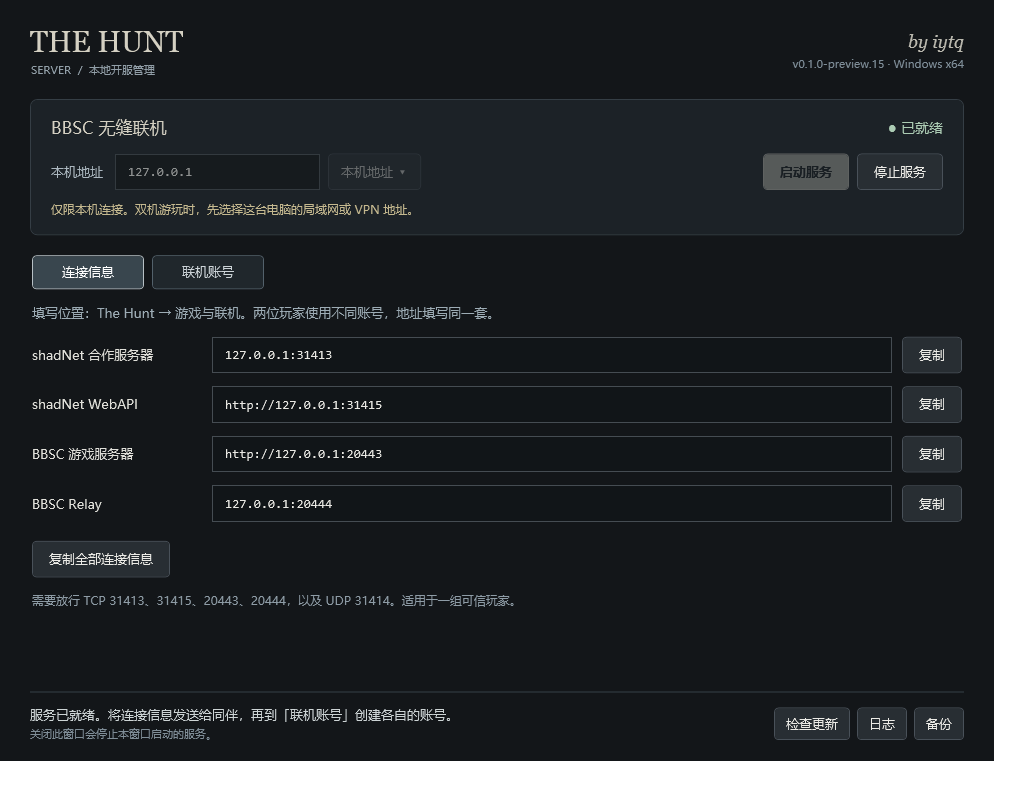
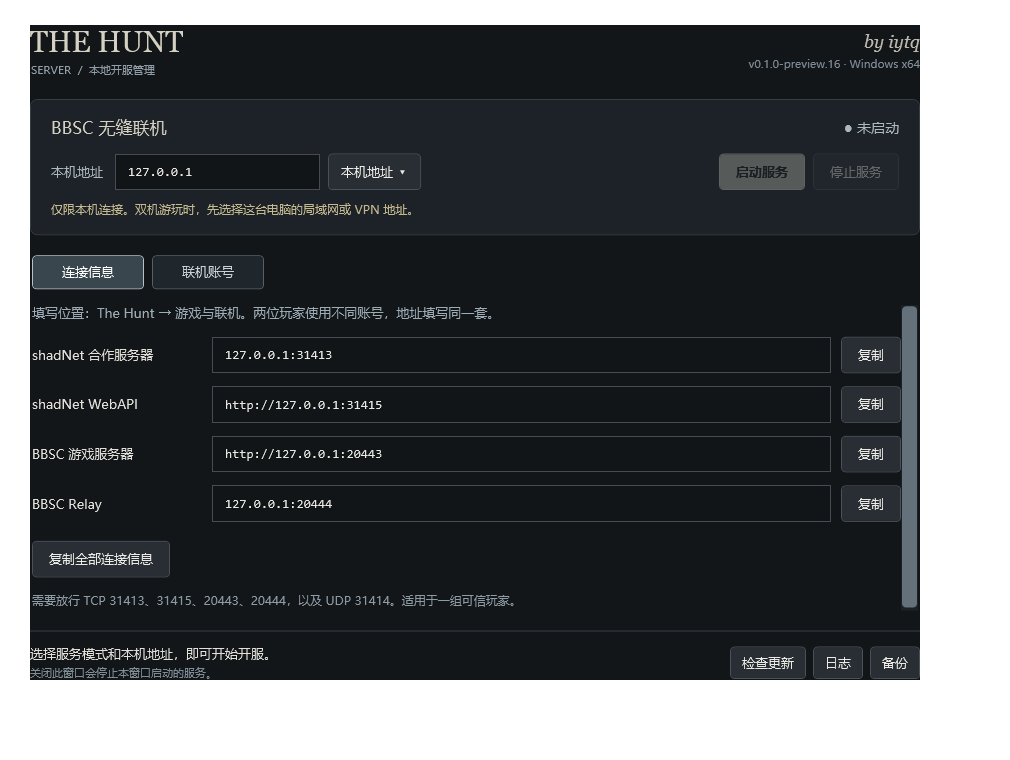
Prepare server source cache in isolated client builds; preview.16

diff --git a/launcher/Launcher.xaml b/launcher/Launcher.xaml
@@ -148,7 +148,7 @@
           <TextBlock Text="iytq" FontFamily="Georgia" FontStyle="Italic" FontSize="21" Foreground="#BDBBB3" Margin="0,0,0,14"/>
           <TextBlock Text="BBport 1.9.5" Foreground="#A8B1B4"/>
           <TextBlock Text="中文 · 独立运行环境" Style="{StaticResource Caption}" Margin="0,8,0,8"/>
-          <TextBlock Text="0.1.0-preview.15" FontSize="11" Foreground="#68767D"/>
+          <TextBlock Text="0.1.0-preview.16" FontSize="11" Foreground="#68767D"/>
         </StackPanel>
         <Grid/>
       </DockPanel>

diff --git a/server/docs/updates.md b/server/docs/updates.md
@@ -22,7 +22,7 @@ HTTP 代理作用于程序内查询和自动下载；浏览器手动下载使用
 
 点击「自动更新」前，客户端请退出游戏、结束存档等操作；开服管理器请先停止服务。程序先下载完整 Windows 包，并按 GitHub Release 接口提供的 SHA256 和大小校验，之后退出自身，由独立助手验证包内清单、备份程序文件、替换并重新打开。
 
-存档、凭据、联机地址、账号数据库、拾取和世界恢复记录保持原位。服务端已有的 `server.json`、`worlds.cfg`、`scoreboards.cfg` 也会保留。备份只包含被替换的程序文件，位于安装目录 `update-backups/`，不复制账号库或角色存档。更新仍会保留旧版本遗留的额外文件，不自动清理用户目录。preview.15 起只提供无缝服务；旧 `normal/` 配置和数据库仍原样保留，新版不读取或管理。
+存档、凭据、联机地址、账号数据库、拾取和世界恢复记录保持原位。服务端已有的 `server.json`、`worlds.cfg`、`scoreboards.cfg` 也会保留。备份只包含被替换的程序文件，位于安装目录 `update-backups/`，不复制账号库或角色存档。更新仍会保留旧版本遗留的额外文件，不自动清理用户目录。preview.16 起只提供无缝服务；旧 `normal/` 配置和数据库仍原样保留，新版不读取或管理。
 
 下载阶段可以关闭更新弹窗来取消；替换阶段使用独立进度窗口。文件被占用或替换失败时，会尝试恢复已替换的程序；若恢复本身受阻，会显示备份位置以便人工恢复。更新期间阻止同目录程序再次启动。磁盘断电等进程外中断无法保证自动回滚，请保留 `update-backups/` 备份。
 

diff --git a/docs/releases/v0.1.0-preview.16.md b/docs/releases/v0.1.0-preview.16.md
@@ -1,0 +1,16 @@
+# The Hunt 0.1.0-preview.16
+
+客户端与无缝服务端合入现有 TheHuntLauncher 仓库，原 TheHuntServer 仓库保留历史并设为只读。
+
+- 启动器增加本地开服入口，完整包内置无缝服务端管理窗口；点击后由玩家选择地址、开服和创建账号。
+- 可显式填入同机连接地址；账号、密码和配置不会随按钮自动改写或保存。
+- 服务端取消普通模式，仅保留无缝所需的 shadNet、STUN、WebAPI、游戏服务和 Relay。无缝端口、数据库格式及两秒轮询不变。
+- 游戏、启动器和服务端独立运行，关闭游戏或启动器不会自动停服；更新完整包前需关闭本地服务端。
+- 客户端与服务端统一版本、源码、构建及发布，仍提供独立 Windows 服务端包和 Linux 配方。新服务端改从本仓库查询更新。
+- 更新保留内置服务端的监听配置、账号、在线数据和自改的世界／记分板配置。旧普通模式目录不自动删除。
+
+BBport 仍固定 1.9.5，BBSC 游戏逻辑与 preview.14 一致，洗点继续关闭；此前的奖励、存档恢复和退出实机结果按未改动范围复用。本版不把管理窗口、协议检查或构建通过扩大为新增游戏内验收，也不宣称修复历史灯点缺失。
+
+完整客户端包为 `TheHuntLauncher-0.1.0-preview.16-windows-x64.zip`，保留同内容的旧名包供旧客户端更新。旧独立服务端首次迁移需手动下载新服务端包。步骤见 [本地开服](../local-server.md)。
+
+构建修正：在客户端独立构建任务中准备并校验服务端固定源码缓存，再生成统一源码包。preview.15 因此步骤缺失而未发布；运行逻辑不变。

diff --git a/docs/releases/v0.1.0-preview.15.md b/docs/releases/v0.1.0-preview.15.md
@@ -1,14 +1,3 @@
 # The Hunt 0.1.0-preview.15
 
-客户端与无缝服务端合入现有 TheHuntLauncher 仓库，原 TheHuntServer 仓库保留历史并设为只读。
-
-- 启动器增加本地开服入口，完整包内置无缝服务端管理窗口；点击后由玩家选择地址、开服和创建账号。
-- 可显式填入同机连接地址；账号、密码和配置不会随按钮自动改写或保存。
-- 服务端取消普通模式，仅保留无缝所需的 shadNet、STUN、WebAPI、游戏服务和 Relay。无缝端口、数据库格式及两秒轮询不变。
-- 游戏、启动器和服务端独立运行，关闭游戏或启动器不会自动停服；更新完整包前需关闭本地服务端。
-- 客户端与服务端统一版本、源码、构建及发布，仍提供独立 Windows 服务端包和 Linux 配方。新服务端改从本仓库查询更新。
-- 更新保留内置服务端的监听配置、账号、在线数据和自改的世界／记分板配置。旧普通模式目录不自动删除。
-
-BBport 仍固定 1.9.5，BBSC 游戏逻辑与 preview.14 一致，洗点继续关闭；此前的奖励、存档恢复和退出实机结果按未改动范围复用。本版不把管理窗口、协议检查或构建通过扩大为新增游戏内验收，也不宣称修复历史灯点缺失。
-
-完整客户端包为 `TheHuntLauncher-0.1.0-preview.15-windows-x64.zip`，保留同内容的旧名包供旧客户端更新。旧独立服务端首次迁移需手动下载新服务端包。步骤见 [本地开服](../local-server.md)。
+本版未发布：独立客户端作业缺少服务端源码缓存，源码归档失败。完整合仓功能由 [preview.16](v0.1.0-preview.16.md) 接续。

diff --git a/server/docs/releases/v0.1.0-preview.16.md b/server/docs/releases/v0.1.0-preview.16.md
@@ -1,0 +1,13 @@
+# TheHuntServer v0.1.0-preview.16
+
+The Hunt Server 聚焦 BBSC 无缝联机；本次取消普通模式，简化开服与账号管理。
+
+- Windows 窗口直接管理无缝服务，不再显示普通／无缝模式切换。
+- 命令行只提供无缝开服、地址配置和账号创建，保留 `start bbsc` 用法；普通模式请求明确拒绝。
+- 干净发行包不再包含普通模式目录；保留无缝所需的 shadNet、STUN、WebAPI、BBSC 游戏服务和 Relay。
+- 无缝端口、账号与数据库格式、两秒召唤间隔保持原样。升级不会自动删除或转换旧 `normal/` 数据。
+- 更新教程、目录说明与验证范围。服务端精简不修改客户端游戏逻辑，也不自动部署到现有云服务器。
+
+升级前退出旧版开服程序并备份数据，保留 `server.json`、`bbsc/` 与账号备份。具体步骤见 Windows 教程。
+
+构建修正：在客户端独立构建任务中准备并校验服务端固定源码缓存，再生成统一源码包。preview.15 因此步骤缺失而未发布；运行逻辑不变。

diff --git a/server/docs/releases/v0.1.0-preview.15.md b/server/docs/releases/v0.1.0-preview.15.md
@@ -1,11 +1,3 @@
 # TheHuntServer v0.1.0-preview.15
 
-The Hunt Server 聚焦 BBSC 无缝联机；本次取消普通模式，简化开服与账号管理。
-
-- Windows 窗口直接管理无缝服务，不再显示普通／无缝模式切换。
-- 命令行只提供无缝开服、地址配置和账号创建，保留 `start bbsc` 用法；普通模式请求明确拒绝。
-- 干净发行包不再包含普通模式目录；保留无缝所需的 shadNet、STUN、WebAPI、BBSC 游戏服务和 Relay。
-- 无缝端口、账号与数据库格式、两秒召唤间隔保持原样。升级不会自动删除或转换旧 `normal/` 数据。
-- 更新教程、目录说明与验证范围。服务端精简不修改客户端游戏逻辑，也不自动部署到现有云服务器。
-
-升级前退出旧版开服程序并备份数据，保留 `server.json`、`bbsc/` 与账号备份。具体步骤见 Windows 教程。
+本版未发布：独立客户端作业缺少服务端源码缓存，源码归档失败。完整合仓功能由 [preview.16](v0.1.0-preview.16.md) 接续。

diff --git a/server/docs/components.md b/server/docs/components.md
@@ -38,7 +38,7 @@ flowchart LR
 
 ## 专注无缝联机
 
-从 preview.15 起，Windows 管理器与发行包仅提供 BBSC 无缝联机；Linux 配方原本就只部署这套无缝服务。客户端使用 The Hunt 独立包，账号、状态仍在各自原有的无缝数据目录中，端口保持 31413 / 31414 / 31415、20443 / 20444。
+从 preview.16 起，Windows 管理器与发行包仅提供 BBSC 无缝联机；Linux 配方原本就只部署这套无缝服务。客户端使用 The Hunt 独立包，账号、状态仍在各自原有的无缝数据目录中，端口保持 31413 / 31414 / 31415、20443 / 20444。
 
 shadNet 是无缝联机必需的账号、匹配和召唤组件，继续保留。取消的是旧的普通模式入口及其独立运行目录，并未删除 shadNet。历史普通模式使用 313xx 和另一份数据库，新版不会读取、合并或自动清理那些数据。
 

diff --git a/README.md b/README.md
@@ -1,7 +1,7 @@
 # The Hunt — 无缝联机与开服
 
 
-从 preview.15 起，客户端与无缝服务端在本仓库统一维护。完整客户端包内置本地开服管理入口；远程 Windows 开服仍可下载独立服务端包，Linux 使用同版本部署配方。原 TheHuntServer 仓库作为历史只读仓库保留。
+从 preview.16 起，客户端与无缝服务端在本仓库统一维护。完整客户端包内置本地开服管理入口；远程 Windows 开服仍可下载独立服务端包，Linux 使用同版本部署配方。原 TheHuntServer 仓库作为历史只读仓库保留。
 
 - 玩家：使用 `TheHuntLauncher-<版本>-windows-x64.zip`，在「本地与云端开服」打开内置管理窗口。
 - 专用 Windows 服务端：使用 `TheHuntServer-Windows-v<版本>.zip`，无需安装客户端引擎。

diff --git a/docs/updates.md b/docs/updates.md
@@ -34,4 +34,4 @@ HTTP 代理作用于程序内查询和自动下载；浏览器手动下载使用
 
 ## 内置本地服务端
 
-preview.15 起客户端与服务端统一从 TheHuntLauncher 查询发布。完整客户端升级前需关闭本地服务端管理窗口；更新保留 `server/server.json`、`server/bbsc` 中的账号、注册配置、在线数据及已有世界／记分板配置。旧独立服务端首次迁移需手动下载安装包，之后从主仓库更新。
+preview.16 起客户端与服务端统一从 TheHuntLauncher 查询发布。完整客户端升级前需关闭本地服务端管理窗口；更新保留 `server/server.json`、`server/bbsc` 中的账号、注册配置、在线数据及已有世界／记分板配置。旧独立服务端首次迁移需手动下载安装包，之后从主仓库更新。

diff --git a/server/docs/validation.md b/server/docs/validation.md
@@ -1,6 +1,6 @@
 # 验证范围
 
-## 无缝专用版本（preview.15）
+## 无缝专用版本（preview.16）
 
 本版仅精简 Windows 管理、命令行与打包范围，不更改固定的 shadNet 协议实现、BBSC 游戏服务、Relay、两秒召唤间隔或数据库格式。验证聚焦单一无缝入口、完整开服组件、账号维护与备份、旧普通模式请求拒绝、遗留普通文件保持不变、退出回收，以及干净包不含普通模式。实际执行结果随本轮构建记录提供。
 
